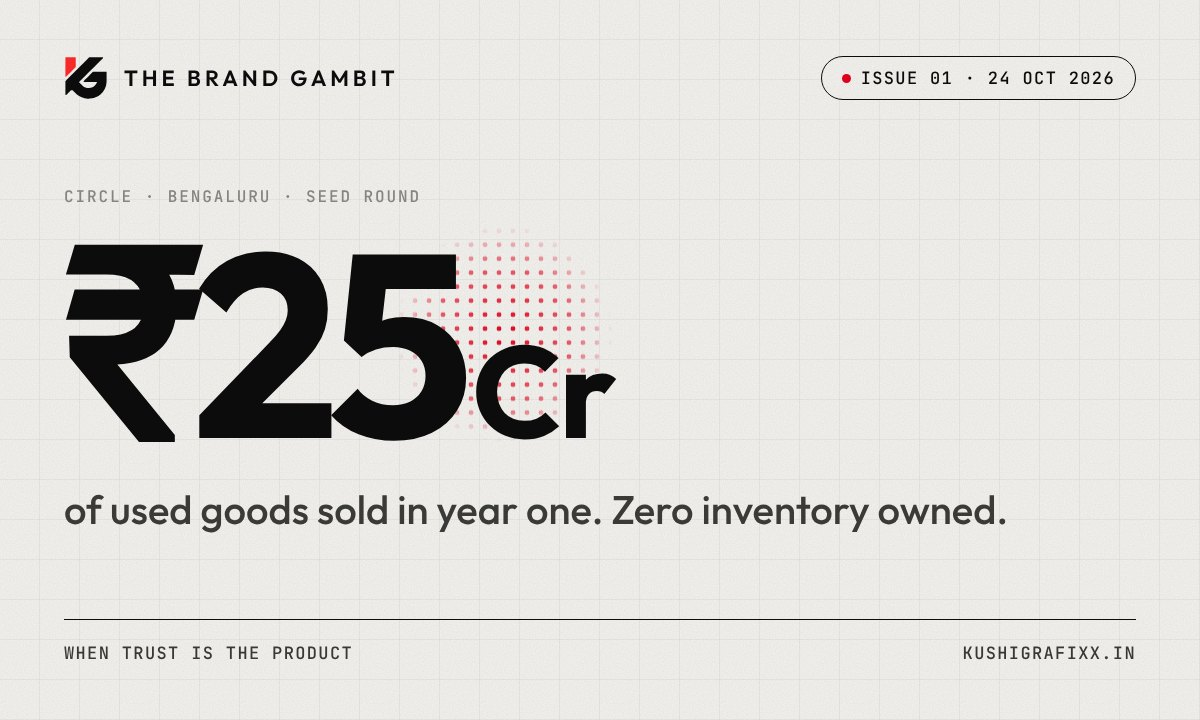
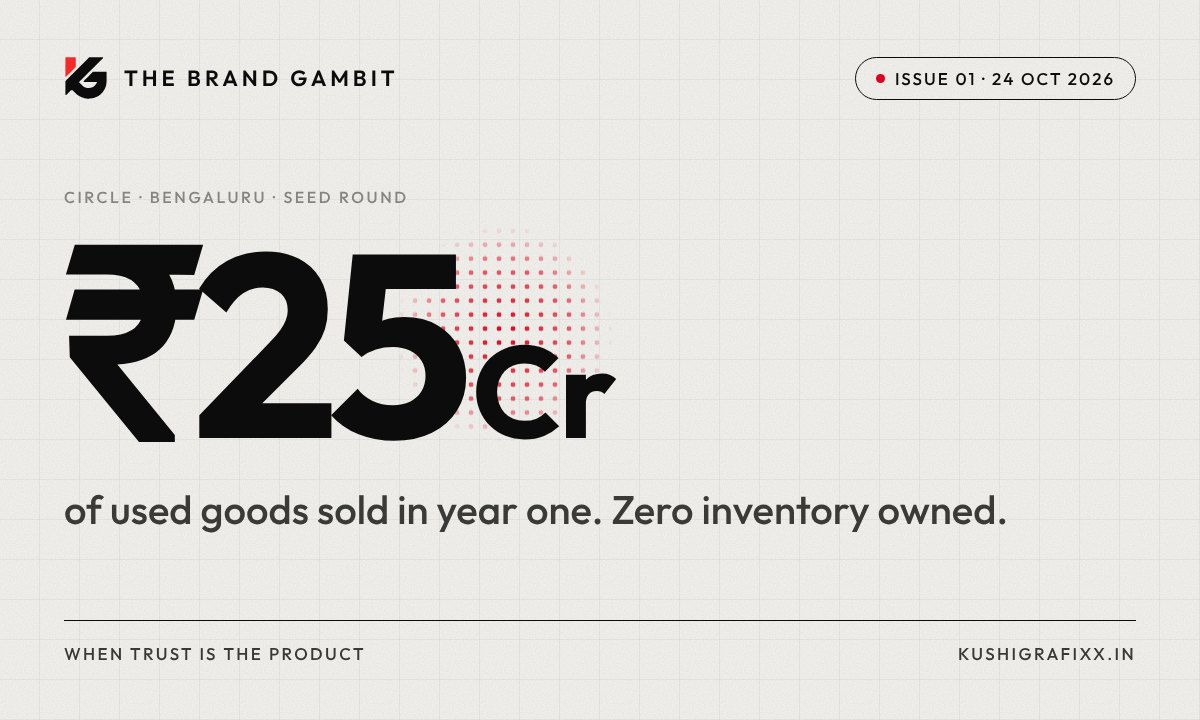
Outfit only: remove mono typeface from kit and Issue 01 images
Claude-Session: https://claude.ai/code/session_01FZBapDAQ76FqfELAvMaTsU

diff --git a/kit/templates/base.css b/kit/templates/base.css
@@ -1,11 +1,10 @@
 /* The Brand Gambit — visual kit (light editorial, Kushi Grafixx accents)
-   Rules: Outfit only (+ JetBrains Mono for micro-labels), red is 3–8% of any frame,
+   Rules: Outfit only, no other typeface (labels = Outfit 500, uppercase, tracked), red is 3–8% of any frame,
    one red focal point per image, pills are full radius, cards 10px radius, 4px grid. */
 @font-face { font-family: Outfit; font-weight: 400; src: url(../assets/outfit-latin-400-normal.woff2); }
 @font-face { font-family: Outfit; font-weight: 500; src: url(../assets/outfit-latin-500-normal.woff2); }
 @font-face { font-family: Outfit; font-weight: 600; src: url(../assets/outfit-latin-600-normal.woff2); }
 @font-face { font-family: Outfit; font-weight: 700; src: url(../assets/outfit-latin-700-normal.woff2); }
-@font-face { font-family: Mono; font-weight: 500; src: url(../assets/jetbrains-mono-latin-500-normal.woff2); }
 
 :root {
   --paper: #F5F4F0;
@@ -44,12 +43,12 @@ body { font-family: Outfit, sans-serif; color: var(--ink); -webkit-font-smoothin
 .pill {
   display: inline-flex; align-items: center; gap: 10px;
   border: 1.5px solid var(--ink); border-radius: 999px;
-  padding: 10px 20px; font-family: Mono, monospace; font-size: 17px; letter-spacing: .08em; text-transform: uppercase;
+  padding: 10px 20px; font-weight: 500; font-size: 17px; letter-spacing: .12em; text-transform: uppercase;
   background: var(--paper);
 }
 .pill .dot { width: 9px; height: 9px; border-radius: 50%; background: var(--red); }
-.mono { font-family: Mono, monospace; letter-spacing: .08em; text-transform: uppercase; }
-.label { font-family: Mono, monospace; font-size: 16px; letter-spacing: .12em; text-transform: uppercase; color: var(--muted); }
+.caps { font-weight: 500; letter-spacing: .14em; text-transform: uppercase; }
+.label { font-weight: 500; font-size: 16px; letter-spacing: .16em; text-transform: uppercase; color: var(--muted); }
 
 /* red halftone stipple patch — the single red focal device */
 .stipple {

diff --git a/kit/templates/cover.html b/kit/templates/cover.html
@@ -10,7 +10,7 @@
   .support { margin-top: 26px; font-weight: 500; font-size: 40px; line-height: 1.2; color: var(--ink-2); max-width: 960px; text-wrap: balance; position: relative; z-index: 1; }
   .stipple { left: {{STIPPLE_X}}px; top: 50%; transform: translateY(-62%); z-index: 0; }
   .bottom { display: flex; justify-content: space-between; align-items: flex-end; border-top: 1.5px solid var(--ink); padding-top: 22px; }
-  .bottom .mono { font-size: 17px; color: var(--ink-2); }
+  .bottom .caps { font-size: 17px; color: var(--ink-2); }
 </style></head>
 <body><div class="frame" id="frame">
   <div class="top">
@@ -24,7 +24,7 @@
     <div class="support">{{SUPPORT}}</div>
   </div>
   <div class="bottom">
-    <span class="mono">{{SUBJECT_TAG}}</span>
-    <span class="mono">kushigrafixx.in</span>
+    <span class="caps">{{SUBJECT_TAG}}</span>
+    <span class="caps">kushigrafixx.in</span>
   </div>
 </div></body></html>

diff --git a/kit/templates/diagram-mapping.html b/kit/templates/diagram-mapping.html
@@ -17,7 +17,7 @@
   .a i { font-style: normal; font-weight: 400; font-size: 23px; color: var(--muted); margin-top: 8px; line-height: 1.3; }
   .arrow { display: flex; align-items: center; justify-content: center; }
   .arrow svg { width: 72px; height: 24px; }
-  .num { font-family: Mono, monospace; font-size: 15px; color: var(--muted); margin-bottom: 8px; letter-spacing: .1em; }
+  .num { font-weight: 600; font-size: 16px; color: var(--muted); margin-bottom: 8px; letter-spacing: .08em; }
   .outcome { margin-top: 30px; display: flex; justify-content: center; }
   .outcome .pill { font-size: 19px; padding: 14px 26px; background: var(--ink); color: var(--paper); border-color: var(--ink); }
   .foot { margin-top: 30px; display: flex; justify-content: space-between; align-items: center; }

diff --git a/kit/build_email.py b/kit/build_email.py
@@ -12,7 +12,7 @@ import json, sys, html, pathlib
 
 PAPER, CARD, INK, INK2, MUTED, LINE, RED = "#F5F4F0", "#FFFFFF", "#0C0C0C", "#3A3A38", "#8A8985", "#DEDCD6", "#E8001D"
 FONT = "Outfit, 'Helvetica Neue', Helvetica, Arial, sans-serif"
-MONO = "'JetBrains Mono', Menlo, Consolas, monospace"
+LABEL = FONT + ";font-weight:500"  # Outfit only; labels are tracked caps, never mono
 e = html.escape
 
 def p(text, size=17, color=INK2, weight=400, mt=0, mb=18, lh=1.65):
@@ -20,7 +20,7 @@ def p(text, size=17, color=INK2, weight=400, mt=0, mb=18, lh=1.65):
             f'color:{color};font-weight:{weight};">{text}</p>')
 
 def label(text, color=MUTED, mb=10):
-    return (f'<p style="margin:0 0 {mb}px;font-family:{MONO};font-size:11px;letter-spacing:1.6px;'
+    return (f'<p style="margin:0 0 {mb}px;font-family:{LABEL};font-size:11px;letter-spacing:1.6px;'
             f'text-transform:uppercase;color:{color};">{e(text)}</p>')
 
 def img(url, alt):
@@ -33,7 +33,7 @@ def preview(d, base):
     rows.append(f'''<tr><td style="padding:28px 24px 8px;">
       <table role="presentation" width="100%" cellpadding="0" cellspacing="0"><tr>
         <td style="font-family:{FONT};font-weight:600;font-size:13px;letter-spacing:2.4px;text-transform:uppercase;color:{INK};">The Brand Gambit</td>
-        <td align="right" style="font-family:{MONO};font-size:11px;letter-spacing:1.4px;text-transform:uppercase;color:{MUTED};">Issue {e(d["issue_no"])}</td>
+        <td align="right" style="font-family:{LABEL};font-size:11px;letter-spacing:1.4px;text-transform:uppercase;color:{MUTED};">Issue {e(d["issue_no"])}</td>
       </tr></table></td></tr>''')
     body = []
     if d.get("intro_note"):
@@ -48,11 +48,11 @@ def preview(d, base):
     body.append(p(e(d["section_intro"])))
     for i, s in enumerate(d["steps"], 1):
         body.append(f'''<table role="presentation" width="100%" cellpadding="0" cellspacing="0" style="margin:0 0 12px;background:{CARD};border:1px solid {LINE};border-radius:10px;"><tr>
-          <td valign="top" width="44" style="padding:16px 0 16px 18px;font-family:{MONO};font-size:12px;color:{MUTED};">0{i}</td>
+          <td valign="top" width="44" style="padding:16px 0 16px 18px;font-family:{LABEL};font-size:12px;color:{MUTED};">0{i}</td>
           <td style="padding:14px 18px 14px 4px;font-family:{FONT};font-size:16px;line-height:1.55;color:{INK2};"><b style="color:{INK};font-weight:600;">{e(s["title"])}</b> {e(s["body"])}</td></tr></table>''')
     body.append(p(f'<b style="font-weight:600;">{e(d["closer"])}</b>', size=19, color=INK, mt=22, mb=8))
     srcs = " · ".join(f'<a href="{e(s["url"])}" style="color:{MUTED};">{e(s["name"])}</a>' for s in d["lead_sources"])
-    body.append(f'<p style="margin:0 0 34px;font-family:{MONO};font-size:11px;letter-spacing:1px;color:{MUTED};">SOURCE: {srcs} · company-reported figures</p>')
+    body.append(f'<p style="margin:0 0 34px;font-family:{LABEL};font-size:11px;letter-spacing:1px;color:{MUTED};">SOURCE: {srcs} · company-reported figures</p>')
     # short takes
     body.append(f'<div style="border-top:1.5px solid {INK};padding-top:22px;">' + label("Also this week", INK, 16) + '</div>')
     for t in d["short_takes"]:
@@ -63,7 +63,7 @@ def preview(d, base):
             <a href="{e(t["source_url"])}" style="color:{MUTED};font-size:13px;">{e(t["source_name"])} &rarr;</a></td></tr></table>''')
     # question
     body.append(f'''<table role="presentation" width="100%" cellpadding="0" cellspacing="0" style="margin:18px 0 26px;background:{INK};border-radius:12px;"><tr><td style="padding:24px 24px;">
-      <p style="margin:0 0 10px;font-family:{MONO};font-size:11px;letter-spacing:1.6px;text-transform:uppercase;color:#BDBBB5;"><span style="color:{RED};">&#9679;</span>&nbsp; One question</p>
+      <p style="margin:0 0 10px;font-family:{LABEL};font-size:11px;letter-spacing:1.6px;text-transform:uppercase;color:#BDBBB5;"><span style="color:{RED};">&#9679;</span>&nbsp; One question</p>
       <p style="margin:0;font-family:{FONT};font-size:19px;line-height:1.45;color:{PAPER};font-weight:500;">{e(d["question"])}</p></td></tr></table>''')
     body.append(p(f'{e(d["studio_line"])} <a href="https://kushigrafixx.in" style="color:{INK};font-weight:600;">kushigrafixx.in &rarr;</a>', size=15))
     body.append(p(f'See you next Saturday,<br><b style="color:{INK};font-weight:600;">{e(d["signoff_name"])}</b><br><span style="color:{MUTED};font-size:14px;">{e(d["signoff_title"])}</span>', size=16, mt=10, mb=0))
@@ -88,7 +88,7 @@ def pack(d, base, issue_html):
              + p('About 10 minutes. The issue below is exactly what subscribers should see.', size=13, color=MUTED, mt=14, mb=0)
              + (p(e(d["pack_note"]), size=14, color=INK, mt=14, mb=0) if d.get("pack_note") else '')
              + '</td></tr></table>')
-    divider = (f'<p style="margin:28px 0 0;text-align:center;font-family:{MONO};font-size:11px;letter-spacing:2px;color:{MUTED};">'
+    divider = (f'<p style="margin:28px 0 0;text-align:center;font-family:{LABEL};font-size:11px;letter-spacing:2px;color:{MUTED};">'
                '&mdash;&mdash;&mdash;&nbsp; ISSUE STARTS BELOW &nbsp;&mdash;&mdash;&mdash;</p>')
     return (f'<div style="background:{PAPER};padding:24px 12px;"><div style="max-width:600px;margin:0 auto;">'
             f'{check}{divider}</div>{issue_html}</div>')

diff --git a/kit/RUNBOOK.md b/kit/RUNBOOK.md
@@ -12,5 +12,5 @@ Read this before building an issue. `issues/01/issue.json` is the reference exam
 ## Images (1200px wide, saved as JPEG q86)
 - `cover.jpg` from `templates/cover.html`: one big number (BIG, `<small>` for the unit), BIG_SIZE 200–260 so it fits, STIPPLE_X placed behind the end of the number, KICKER "Company · City · Event", SUPPORT one line, SUBJECT_TAG 3–6 words.
 - `diagram.jpg`: `templates/diagram-mapping.html` (customer doubt → brand answer, 3 rows) or `templates/diagram-stat.html` (one number vs a benchmark). If neither fits, write a new template in `templates/` that uses `base.css` and the same rules.
-- Brand rules: Outfit only (+ mono micro-labels), paper #F5F4F0, ink #0C0C0C, Kushi Red #E8001D for ONE focal element only (3–8% of the frame), full-pill capsules, 10px card radius, no gradients/glows on the logo, no flat colour stripes, logo at true aspect ratio.
+- Brand rules: Outfit only, never a mono or second typeface (small labels are Outfit 500 uppercase, tracked), paper #F5F4F0, ink #0C0C0C, Kushi Red #E8001D for ONE focal element only (3–8% of the frame), full-pill capsules, 10px card radius, no gradients/glows on the logo, no flat colour stripes, logo at true aspect ratio.
 - Always open each rendered image and check: no overflow, no clipped text, no single-word last lines, nothing touching the edges.
